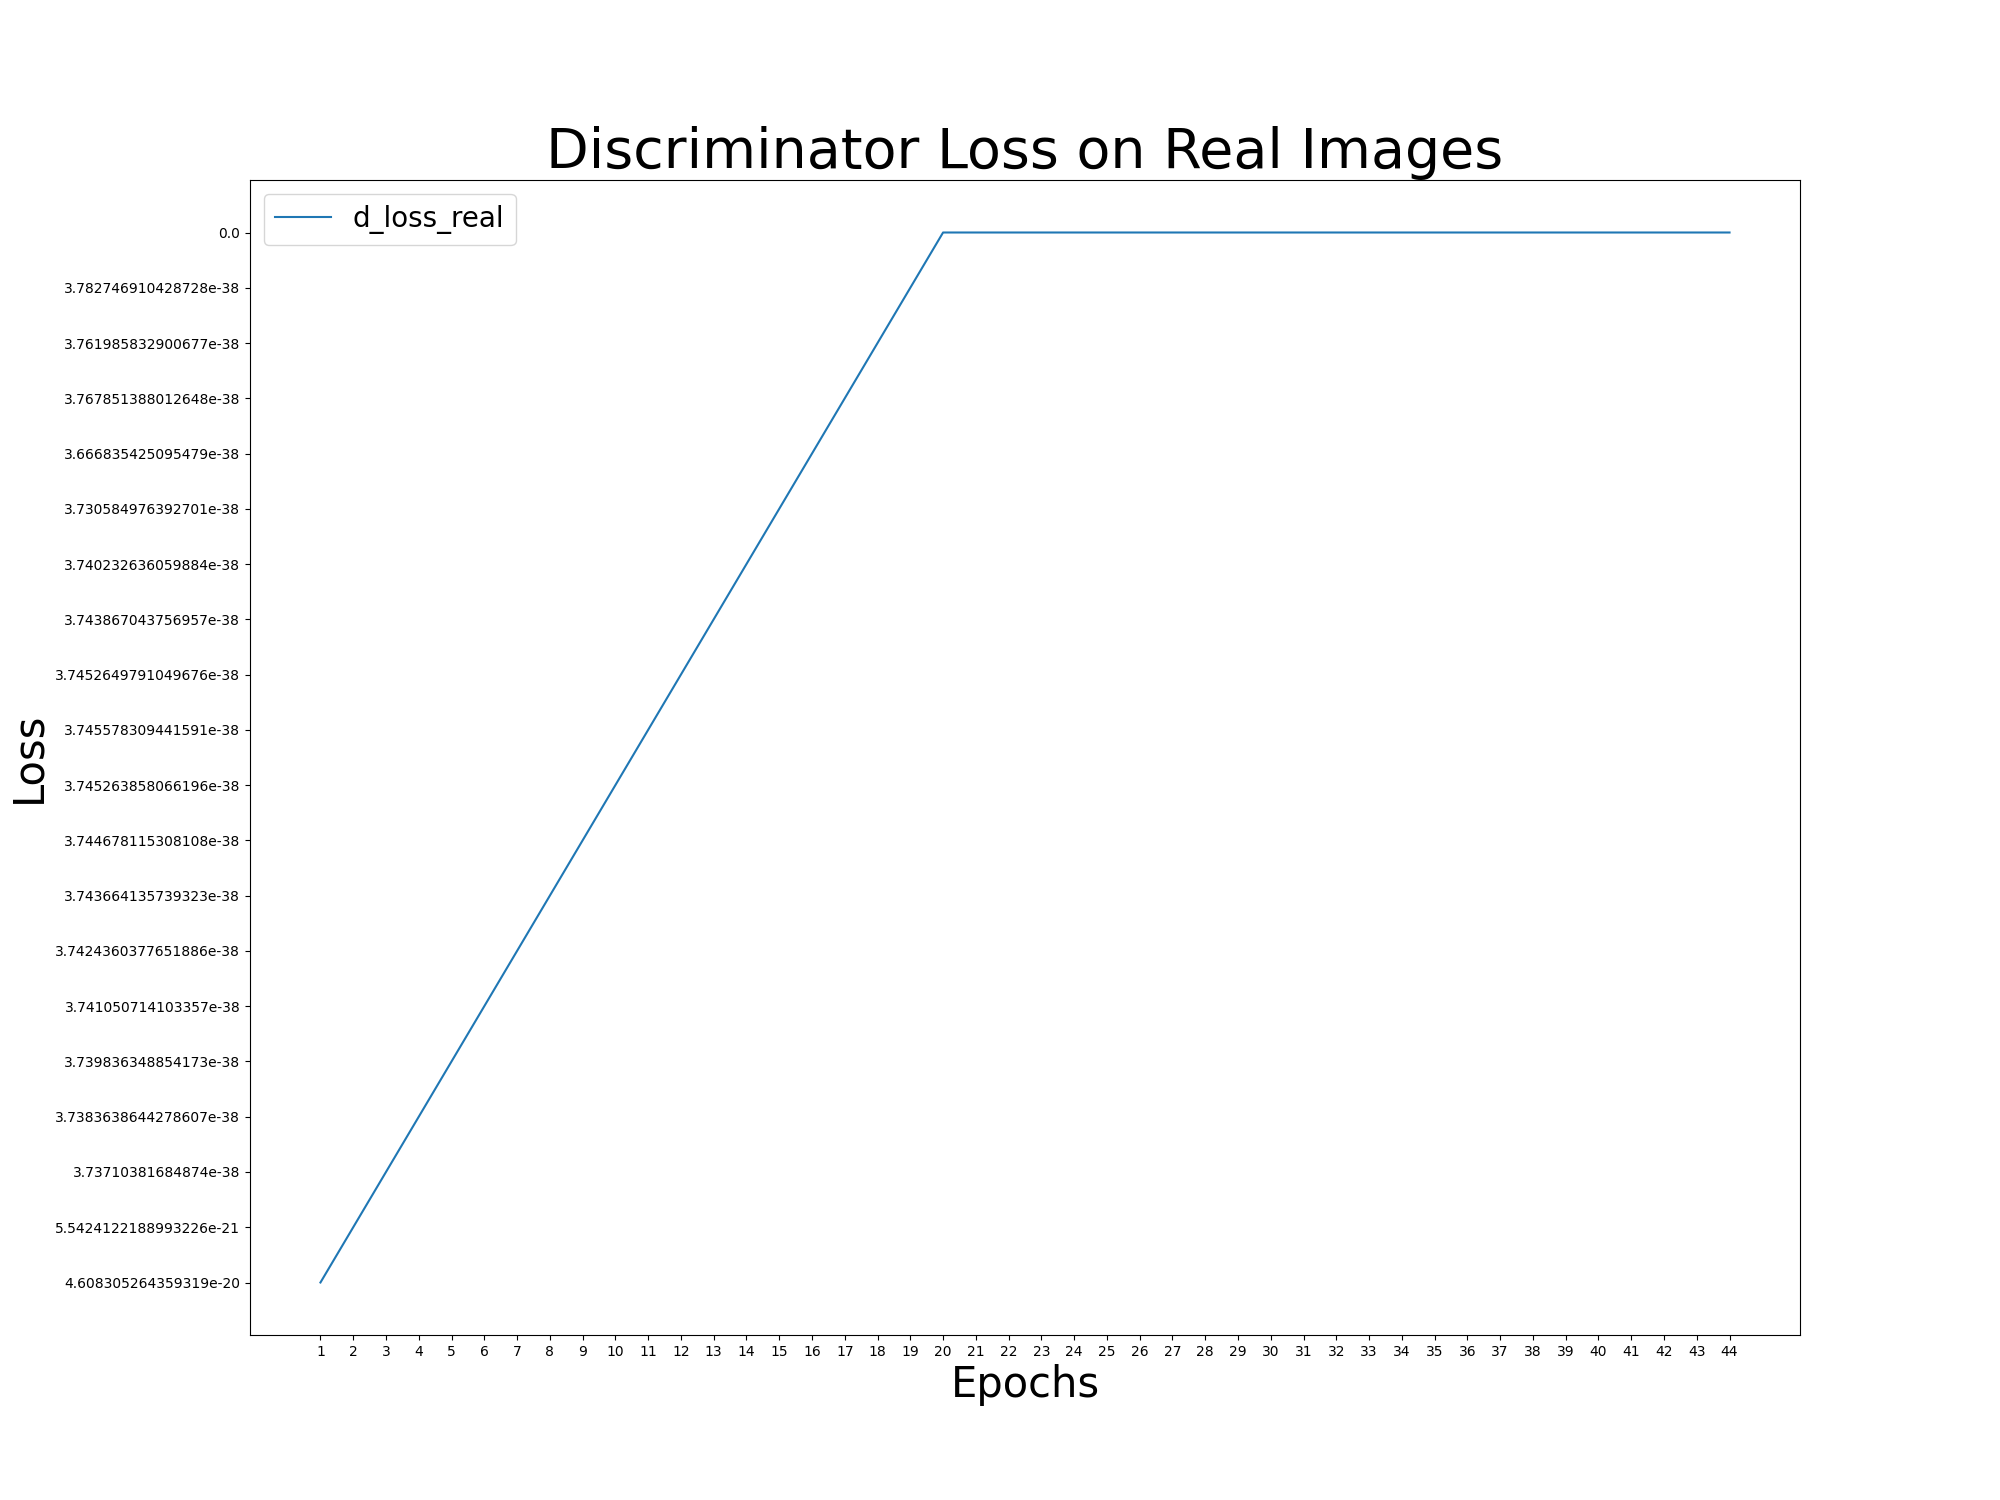
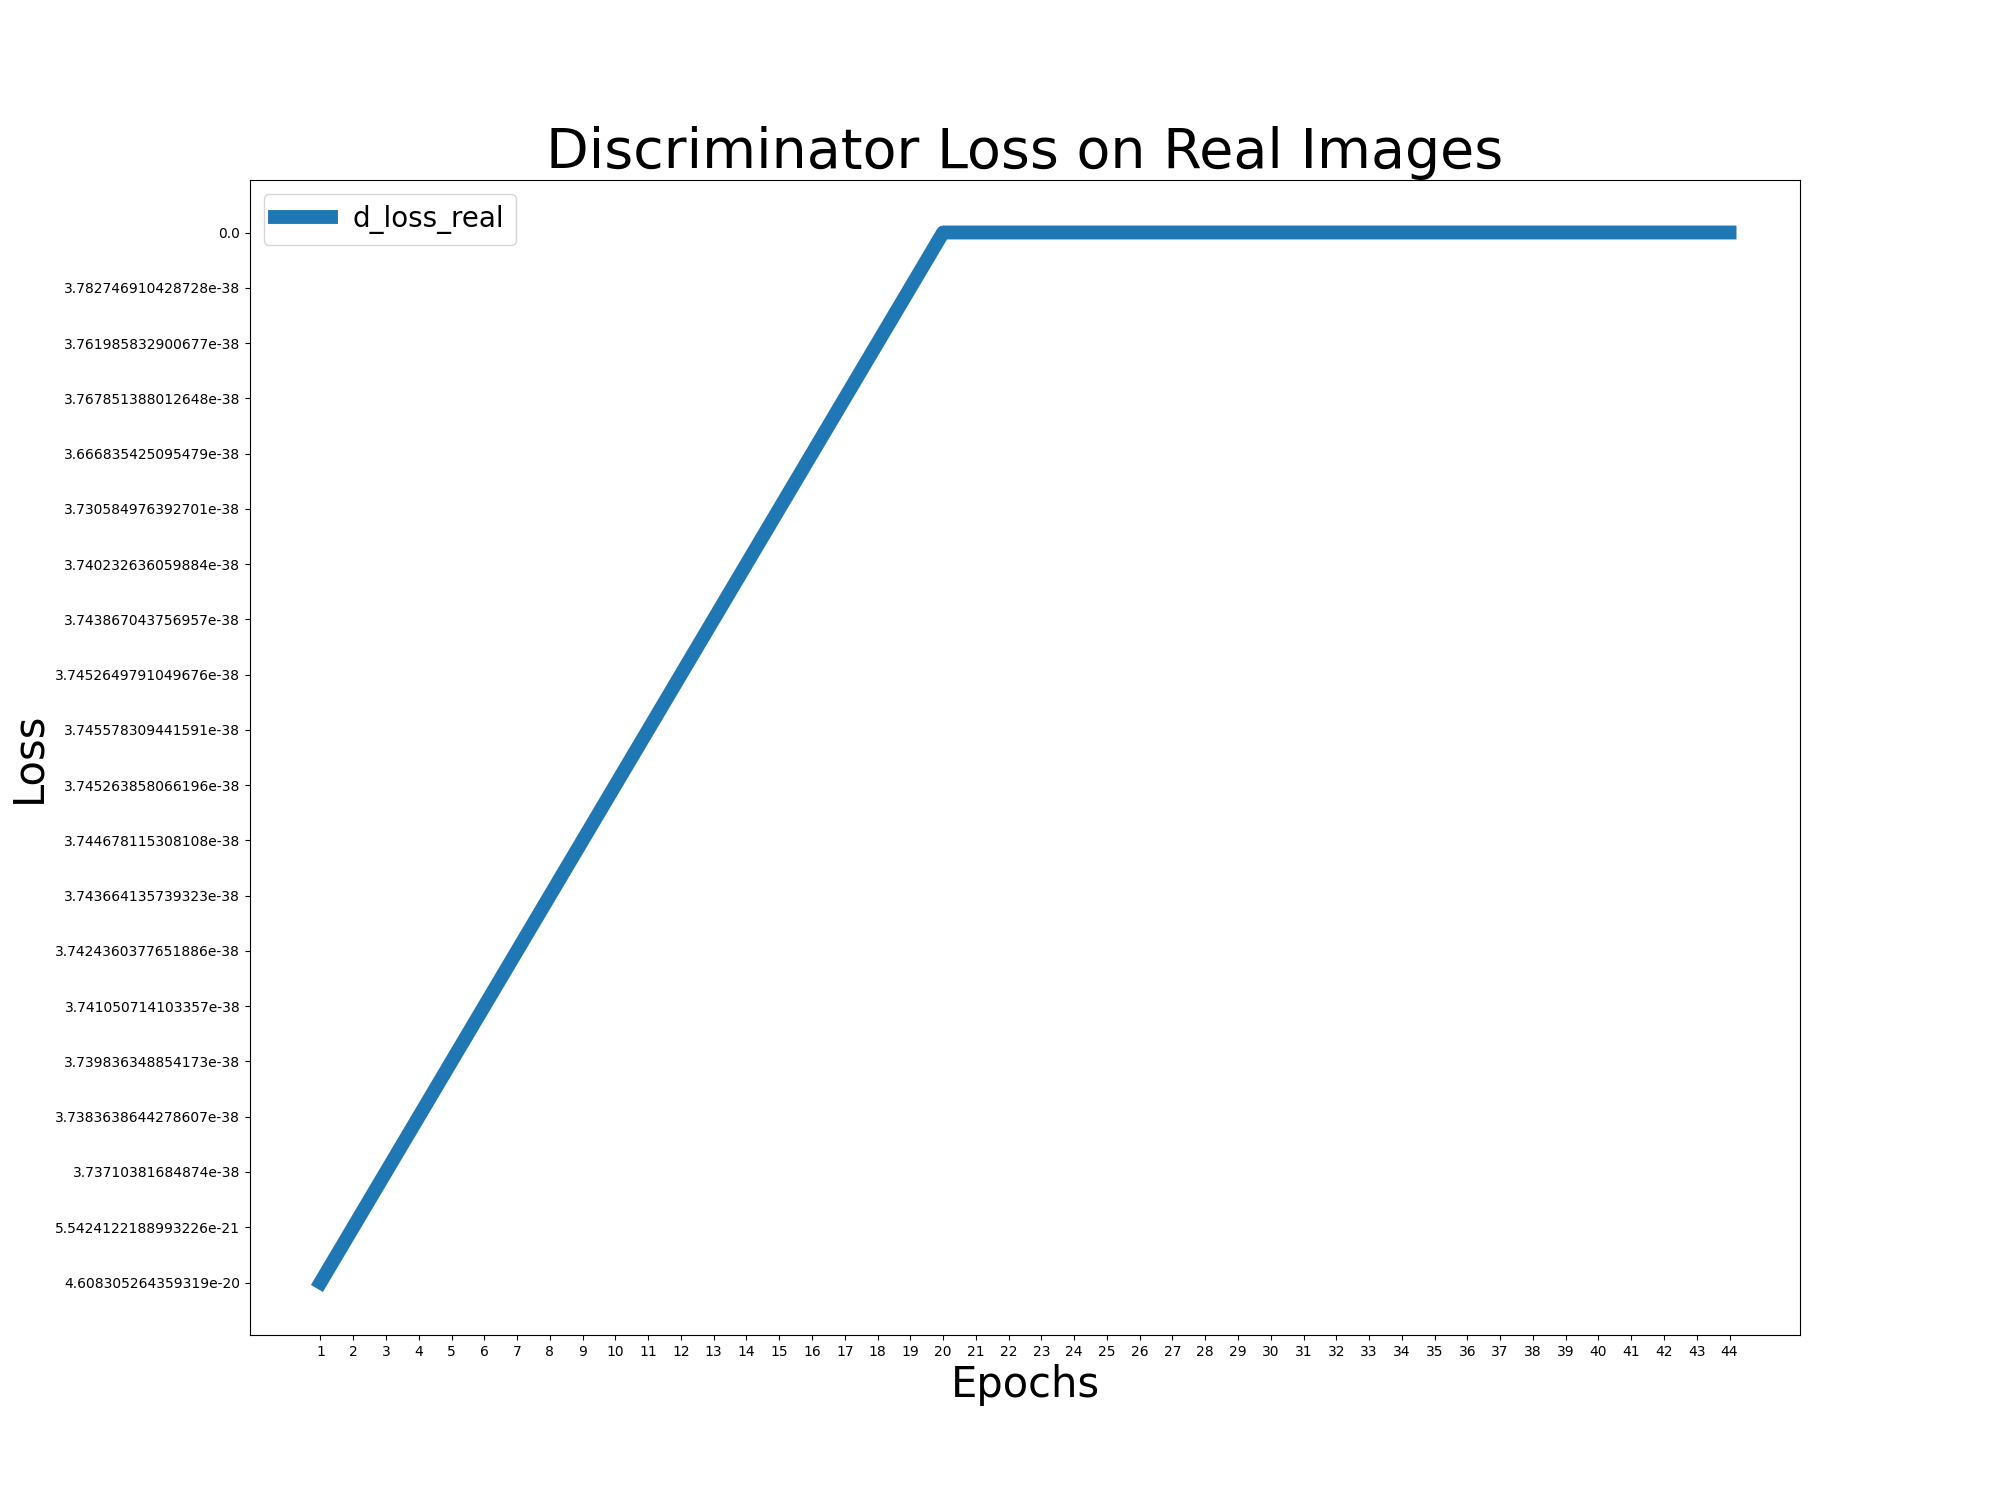
increase line weight

diff --git a/results/data_viz.py b/results/data_viz.py
@@ -13,11 +13,11 @@ def limit_decimals(x):
 def plot_all(data):
     epochs = data.loc[:, 'Epochs']
     plt.figure(figsize=(20,15))
-    plt.plot(epochs, data.loc[:, 'd_loss_fake'].map(lambda x: limit_decimals(x)), label='d_loss_fake')
-    plt.plot(epochs, data.loc[:, 'd_loss_real'].map(lambda x: limit_decimals(x)), label='d_loss_real')
-    plt.plot(epochs, data.loc[:, 'loss_gan'].map(lambda x: limit_decimals(x)), label='loss_gan')
-    plt.plot(epochs, data.loc[:, 'loss_gan1'].map(lambda x: limit_decimals(x)), label='loss_gan1')
-    plt.plot(epochs, data.loc[:, 'loss_gan2'].map(lambda x: limit_decimals(x)), label='loss_gan2')
+    plt.plot(epochs, data.loc[:, 'd_loss_fake'].map(lambda x: limit_decimals(x)), label='d_loss_fake', linewidth=7)
+    plt.plot(epochs, data.loc[:, 'd_loss_real'].map(lambda x: limit_decimals(x)), label='d_loss_real', linewidth=7)
+    plt.plot(epochs, data.loc[:, 'loss_gan'].map(lambda x: limit_decimals(x)), label='loss_gan', linewidth=7)
+    plt.plot(epochs, data.loc[:, 'loss_gan1'].map(lambda x: limit_decimals(x)), label='loss_gan1', linewidth=7)
+    plt.plot(epochs, data.loc[:, 'loss_gan2'].map(lambda x: limit_decimals(x)), label='loss_gan2', linewidth=7)
     plt.title('Training and Loss', size=40)
     plt.xlabel('Epochs', size=30)
     plt.ylabel('Loss', size=30)
@@ -27,7 +27,7 @@ def plot_all(data):
 def plot_d_fake(data):
     epochs = data.loc[:, 'Epochs']
     plt.figure(figsize=(20,15))
-    plt.plot(epochs, data.loc[:, 'd_loss_fake'], label='d_loss_fake')
+    plt.plot(epochs, data.loc[:, 'd_loss_fake'], label='d_loss_fake',linewidth=10)
     plt.title('Discriminator Loss on Fake Images', size=40)
     plt.xlabel('Epochs', size=30)
     plt.ylabel('Loss', size=30)
@@ -37,7 +37,7 @@ def plot_d_fake(data):
 def plot_d_real(data):
     epochs = data.loc[:, 'Epochs']
     plt.figure(figsize=(20,15))
-    plt.plot(epochs, data.loc[:, 'd_loss_real'], label='d_loss_real')
+    plt.plot(epochs, data.loc[:, 'd_loss_real'], label='d_loss_real',linewidth=10)
     plt.title('Discriminator Loss on Real Images', size=40)
     plt.xlabel('Epochs', size=30)
     plt.ylabel('Loss', size=30)
@@ -50,9 +50,9 @@ def plot_gen(data):
     # plt.plot(epochs, data.loc[:, 'loss_gan'], label='loss_gan')
     # plt.plot(epochs, data.loc[:, 'loss_gan1'], label='loss_gan1')
     # plt.plot(epochs, data.loc[:, 'loss_gan2'], label='loss_gan2')
-    plt.plot(epochs, data.loc[:, 'loss_gan'].map(lambda x: limit_decimals(x)), label='loss_gan')
-    plt.plot(epochs, data.loc[:, 'loss_gan1'].map(lambda x: limit_decimals(x)), label='loss_gan1')
-    plt.plot(epochs, data.loc[:, 'loss_gan2'].map(lambda x: limit_decimals(x)), label='loss_gan2')
+    plt.plot(epochs, data.loc[:, 'loss_gan'].map(lambda x: limit_decimals(x)), label='loss_gan',linewidth=7)
+    plt.plot(epochs, data.loc[:, 'loss_gan1'].map(lambda x: limit_decimals(x)), label='loss_gan1',linewidth=7)
+    plt.plot(epochs, data.loc[:, 'loss_gan2'].map(lambda x: limit_decimals(x)), label='loss_gan2',linewidth=7)
     plt.title('Generator Loss', size=40)
     plt.xlabel('Epochs', size=30)
     plt.ylabel('Loss', size=30)
